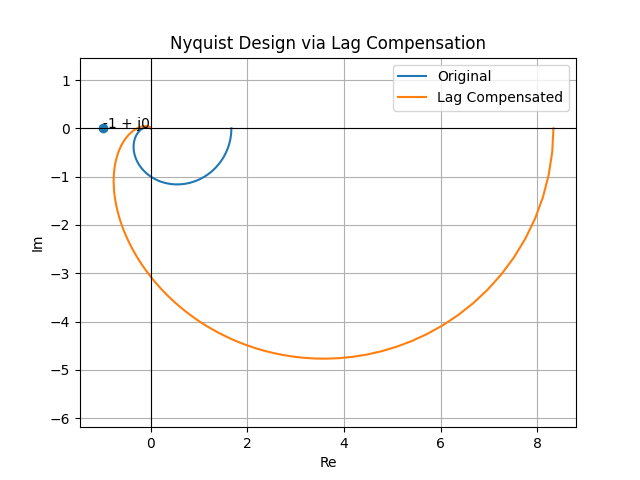
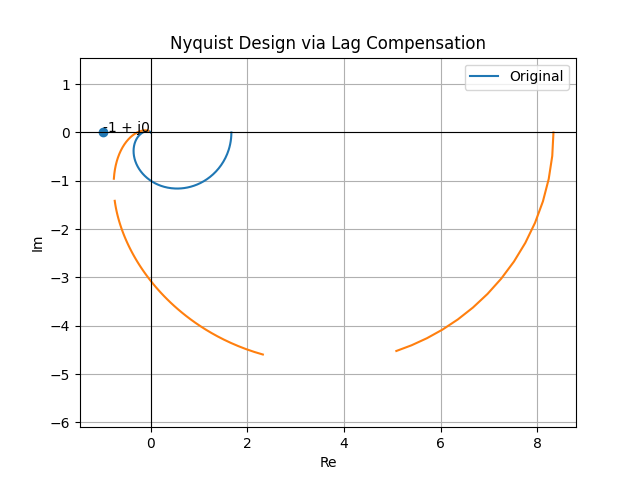
Experimented with changing how the lag-compensated contour is shown.

diff --git a/python/plotting/nyquist_lag_design_plot.py b/python/plotting/nyquist_lag_design_plot.py
@@ -23,6 +23,43 @@ def load_lag_design_data(filename):
 
   return frequencies, original_real, original_imaginary, compensated_real, compensated_imaginary
 
+def find_nearest_frequency_index(frequencies, target_frequency):
+    nearest_index = 0
+    smallest_difference = abs(frequencies[0] - target_frequency)
+
+    for i in range(1, len(frequencies)):
+        current_difference = abs(frequencies[i] - target_frequency)
+
+        if current_difference < smallest_difference:
+            smallest_difference = current_difference
+            nearest_index = i
+
+    return nearest_index
+
+# Create a new contour segement helper function
+def plot_frequency_segment(frequencies, real_values, imaginary_values, start_frequency, end_frequency, color="tab:orange"):
+  # Identify the starting index
+  start_idx = find_nearest_frequency_index(
+     frequencies,
+     start_frequency
+  )
+
+  # Identify the end index
+  end_idx = find_nearest_frequency_index(
+     frequencies,
+     end_frequency
+  )
+
+  # Plot the real/imaginary values from starting index up until the end index
+  plt.plot(
+     real_values[start_idx:end_idx],
+     imaginary_values[start_idx:end_idx],
+     color=color
+  )
+
+  return start_idx, end_idx
+
+
 def plot_lag_design(frequencies, original_real, original_imaginary, compensated_real, compensated_imaginary):
   # Create a brand new lag design figure
   plt.figure()
@@ -35,12 +72,31 @@ def plot_lag_design(frequencies, original_real, original_imaginary, compensated_
     color="tab:blue"
   )
 
-  # Plot the contour for the lag-compensated response
-  plt.plot(
-    compensated_real,
-    compensated_imaginary,
-    label="Lag Compensated",
-    color="tab:orange"
+  # Plot the selected low_frequency portion
+  plot_frequency_segment(
+     frequencies,
+     compensated_real,
+     compensated_imaginary,
+     0.0,
+     0.15
+  )
+
+  # Plot the transition-frequency portion
+  plot_frequency_segment(
+     frequencies,
+     compensated_real,
+     compensated_imaginary,
+     0.25,
+     0.9
+  )
+
+  # Plot the high-frequency portion
+  plot_frequency_segment(
+     frequencies,
+     compensated_real,
+     compensated_imaginary,
+     1.1,
+     5.0
   )
 
   # Plot the Real and imaginary axeses
